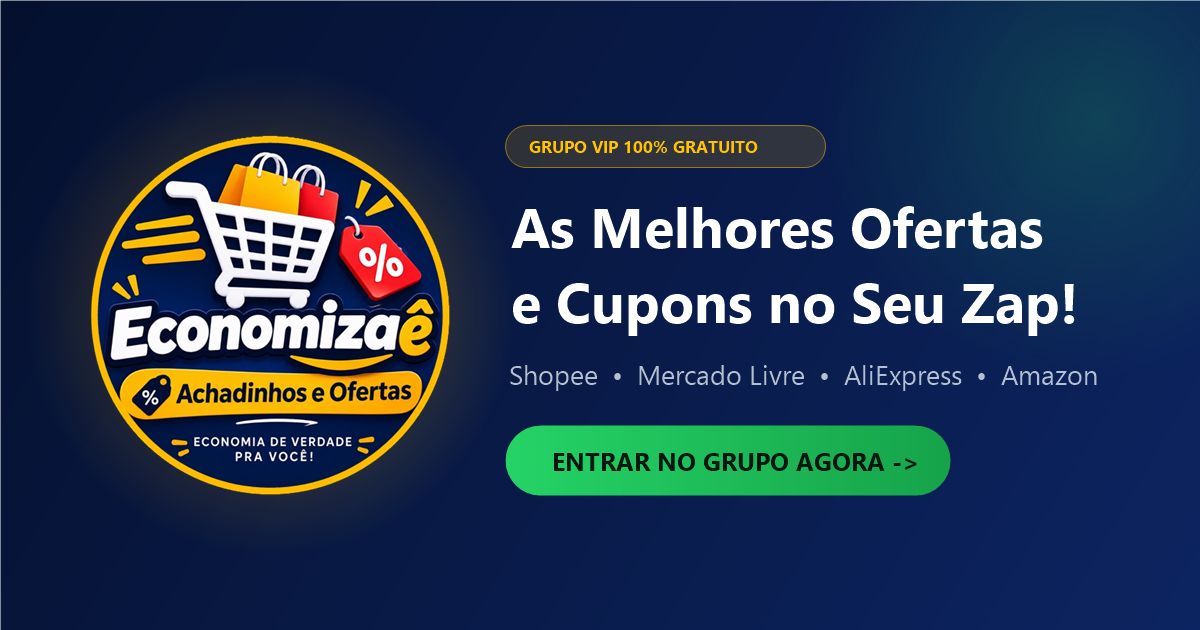
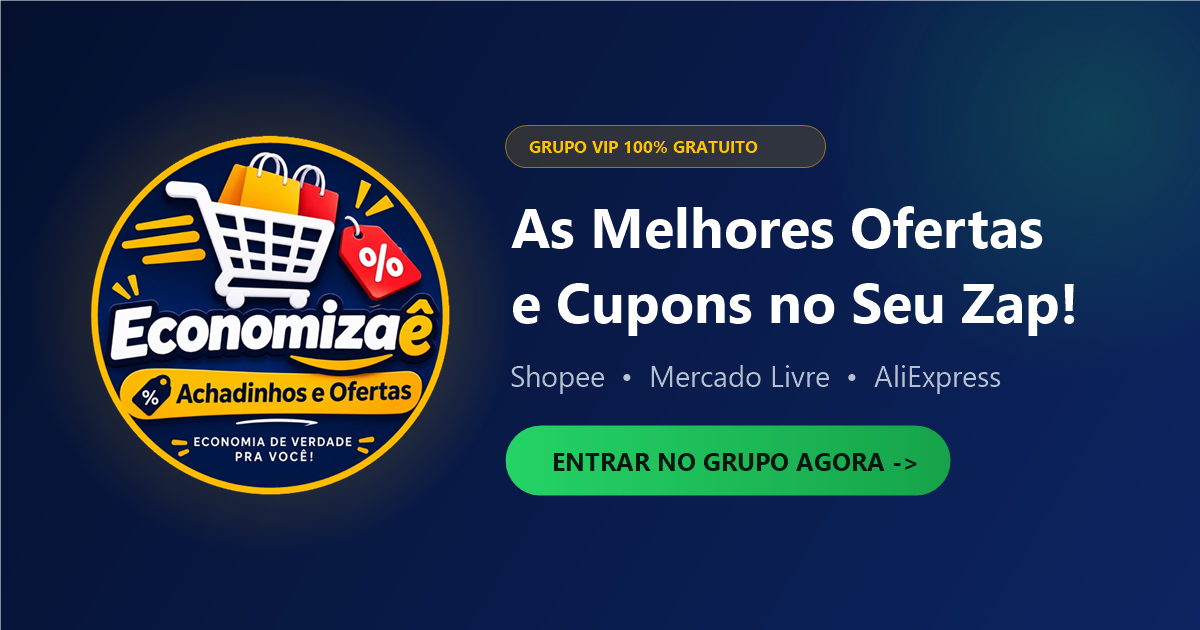
Add files via upload

Changed region(s): [[0.4317, 0.573, 0.925, 0.6333]]

diff --git a/whats/index.html b/whats/index.html
@@ -4,14 +4,14 @@
   <meta charset="UTF-8" />
   <meta name="viewport" content="width=device-width, initial-scale=1.0" />
   <title>Economizaê — Grupo VIP de Ofertas e Cupons no WhatsApp</title>
-  <meta name="description" content="Entre grátis no grupo VIP do Economizaê e receba todos os dias as melhores ofertas, achadinhos e cupons da Shopee, Mercado Livre, AliExpress e Amazon direto no seu WhatsApp ou Telegram." />
+  <meta name="description" content="Entre grátis no grupo VIP do Economizaê e receba todos os dias as melhores ofertas, achadinhos e cupons da Shopee, Mercado Livre e AliExpress direto no seu WhatsApp ou Telegram." />
   <meta name="theme-color" content="#050f2c" />
 
   <!-- Open Graph / WhatsApp / Facebook / Instagram -->
   <meta property="og:type" content="website" />
   <meta property="og:locale" content="pt_BR" />
   <meta property="og:title" content="Economizaê — As Melhores Ofertas e Cupons no Seu WhatsApp!" />
-  <meta property="og:description" content="Grupo 100% gratuito e silencioso com achadinhos e descontos reais da Shopee, Mercado Livre, AliExpress e Amazon." />
+  <meta property="og:description" content="Grupo 100% gratuito e silencioso com achadinhos e descontos reais da Shopee, Mercado Livre e AliExpress." />
   <meta property="og:image" content="../assets/og-share.png" />
   <meta name="twitter:card" content="summary_large_image" />
   <meta name="twitter:title" content="Economizaê — Grupo VIP de Ofertas e Cupons" />
@@ -62,7 +62,7 @@
 
         <p class="hero__subtitle">
           Garimpamos diariamente descontos reais, ofertas relâmpago e cupons da
-          <strong>Shopee, Mercado Livre, AliExpress e Amazon</strong> — economia de verdade pra você pagar menos todo dia.
+          <strong>Shopee, Mercado Livre e AliExpress</strong> — economia de verdade pra você pagar menos todo dia.
         </p>
 
         <div id="heroCta" class="cta-stack">
@@ -146,7 +146,6 @@
         <span class="store-pill"><span class="store-dot store-dot--shopee"></span>Shopee</span>
         <span class="store-pill"><span class="store-dot store-dot--ml"></span>Mercado Livre</span>
         <span class="store-pill"><span class="store-dot store-dot--ali"></span>AliExpress</span>
-        <span class="store-pill"><span class="store-dot store-dot--amazon"></span>Amazon</span>
       </div>
     </div>
   </section>
@@ -214,7 +213,6 @@
         <button type="button" class="filter-pill" data-filter="shopee">Shopee</button>
         <button type="button" class="filter-pill" data-filter="mercadolivre">Mercado Livre</button>
         <button type="button" class="filter-pill" data-filter="aliexpress">AliExpress</button>
-        <button type="button" class="filter-pill" data-filter="amazon">Amazon</button>
       </div>
 
       <div id="dealsGrid" class="deals-grid"></div>
@@ -368,7 +366,7 @@
           </button>
           <div class="faq-answer">
             <div class="faq-answer__inner">
-              Sim! Nós divulgamos apenas links que levam direto para as grandes lojas oficiais (Shopee, Mercado Livre, AliExpress e Amazon). Você paga e acompanha a entrega diretamente no site ou aplicativo da própria loja.
+              Sim! Nós divulgamos apenas links que levam direto para as grandes lojas oficiais (Shopee, Mercado Livre e AliExpress). Você paga e acompanha a entrega diretamente no site ou aplicativo da própria loja.
             </div>
           </div>
         </div>

diff --git a/index.html b/index.html
@@ -4,14 +4,14 @@
   <meta charset="UTF-8" />
   <meta name="viewport" content="width=device-width, initial-scale=1.0" />
   <title>Economizaê — Grupo VIP de Ofertas e Cupons no WhatsApp</title>
-  <meta name="description" content="Entre grátis no grupo VIP do Economizaê e receba todos os dias as melhores ofertas, achadinhos e cupons da Shopee, Mercado Livre, AliExpress e Amazon direto no seu WhatsApp ou Telegram." />
+  <meta name="description" content="Entre grátis no grupo VIP do Economizaê e receba todos os dias as melhores ofertas, achadinhos e cupons da Shopee, Mercado Livre e AliExpress direto no seu WhatsApp ou Telegram." />
   <meta name="theme-color" content="#050f2c" />
 
   <!-- Open Graph / WhatsApp / Facebook / Instagram -->
   <meta property="og:type" content="website" />
   <meta property="og:locale" content="pt_BR" />
   <meta property="og:title" content="Economizaê — As Melhores Ofertas e Cupons no Seu WhatsApp!" />
-  <meta property="og:description" content="Grupo 100% gratuito e silencioso com achadinhos e descontos reais da Shopee, Mercado Livre, AliExpress e Amazon." />
+  <meta property="og:description" content="Grupo 100% gratuito e silencioso com achadinhos e descontos reais da Shopee, Mercado Livre e AliExpress." />
   <meta property="og:image" content="assets/og-share.png" />
   <meta name="twitter:card" content="summary_large_image" />
   <meta name="twitter:title" content="Economizaê — Grupo VIP de Ofertas e Cupons" />
@@ -62,7 +62,7 @@
 
         <p class="hero__subtitle">
           Garimpamos diariamente descontos reais, ofertas relâmpago e cupons da
-          <strong>Shopee, Mercado Livre, AliExpress e Amazon</strong> — economia de verdade pra você pagar menos todo dia.
+          <strong>Shopee, Mercado Livre e AliExpress</strong> — economia de verdade pra você pagar menos todo dia.
         </p>
 
         <div id="heroCta" class="cta-stack">
@@ -146,7 +146,6 @@
         <span class="store-pill"><span class="store-dot store-dot--shopee"></span>Shopee</span>
         <span class="store-pill"><span class="store-dot store-dot--ml"></span>Mercado Livre</span>
         <span class="store-pill"><span class="store-dot store-dot--ali"></span>AliExpress</span>
-        <span class="store-pill"><span class="store-dot store-dot--amazon"></span>Amazon</span>
       </div>
     </div>
   </section>
@@ -214,7 +213,6 @@
         <button type="button" class="filter-pill" data-filter="shopee">Shopee</button>
         <button type="button" class="filter-pill" data-filter="mercadolivre">Mercado Livre</button>
         <button type="button" class="filter-pill" data-filter="aliexpress">AliExpress</button>
-        <button type="button" class="filter-pill" data-filter="amazon">Amazon</button>
       </div>
 
       <div id="dealsGrid" class="deals-grid"></div>
@@ -368,7 +366,7 @@
           </button>
           <div class="faq-answer">
             <div class="faq-answer__inner">
-              Sim! Nós divulgamos apenas links que levam direto para as grandes lojas oficiais (Shopee, Mercado Livre, AliExpress e Amazon). Você paga e acompanha a entrega diretamente no site ou aplicativo da própria loja.
+              Sim! Nós divulgamos apenas links que levam direto para as grandes lojas oficiais (Shopee, Mercado Livre e AliExpress). Você paga e acompanha a entrega diretamente no site ou aplicativo da própria loja.
             </div>
           </div>
         </div>

diff --git a/assets/app.js b/assets/app.js
@@ -205,12 +205,12 @@
         },
         {
           badge: "-56% OFF",
-          store: "Amazon Brasil",
+          store: "Shopee Oficial",
           product: "☕ Garrafa Térmica Inox Parede Dupla 1 Litro",
           oldPrice: "R$ 159,90",
           newPrice: "R$ 69,90",
           coupon: "⚡ Oferta Relâmpago • Estoque Limitado",
-          link: "amzn.to/economia-de-verdade",
+          link: "s.shopee.com.br/economia-de-verdade",
           time: "16:19"
         }
       ]
@@ -284,8 +284,7 @@
     const corDot = {
       shopee: "store-dot--shopee",
       mercadolivre: "store-dot--ml",
-      aliexpress: "store-dot--ali",
-      amazon: "store-dot--amazon"
+      aliexpress: "store-dot--ali"
     };
 
     function renderizar(filtro) {
@@ -425,7 +424,7 @@
     btn.addEventListener("click", async () => {
       const shareData = {
         title: "Economizaê — Achadinhos e Ofertas",
-        text: "Entra nesse grupo grátis de ofertas e cupons da Shopee, Mercado Livre, AliExpress e Amazon!",
+        text: "Entra nesse grupo grátis de ofertas e cupons da Shopee, Mercado Livre e AliExpress!",
         url: window.location.href
       };
       if (navigator.share) {
@@ -466,7 +465,7 @@
       termos: {
         titulo: "Termos de Uso e Aviso de Afiliado",
         html: `
-          <p>O <strong>Economizaê</strong> atua como um canal independente de curadoria e divulgação de promoções, descontos e cupons encontrados nas principais lojas online (como Shopee, Mercado Livre, AliExpress e Amazon).</p>
+          <p>O <strong>Economizaê</strong> atua como um canal independente de curadoria e divulgação de promoções, descontos e cupons encontrados nas principais lojas online (como Shopee, Mercado Livre e AliExpress).</p>
           <p><strong>Participação em programas de afiliados:</strong> alguns links compartilhados nos grupos podem gerar uma pequena comissão para manter o projeto 100% gratuito, sem nenhum acréscimo no valor pago por você.</p>
           <p>Todas as compras, pagamentos, entregas e garantias são realizados exclusivamente dentro dos sites ou aplicativos oficiais de cada loja. Preços, estoques e cupons são dinâmicos e podem sofrer alteração a qualquer momento pela loja anunciante.</p>
         `

diff --git a/assets/config.js b/assets/config.js
@@ -60,8 +60,8 @@ window.ECONOMIZAE_CONFIG = {
       cupom: "CUPOM EXCLUSIVO"
     },
     {
-      loja: "Amazon",
-      chaveLoja: "amazon",
+      loja: "AliExpress",
+      chaveLoja: "aliexpress",
       categoria: "Utilidades",
       icone: "☕",
       titulo: "Garrafa Térmica Inox Parede Dupla 1L — Mantém Gelado 24h",
